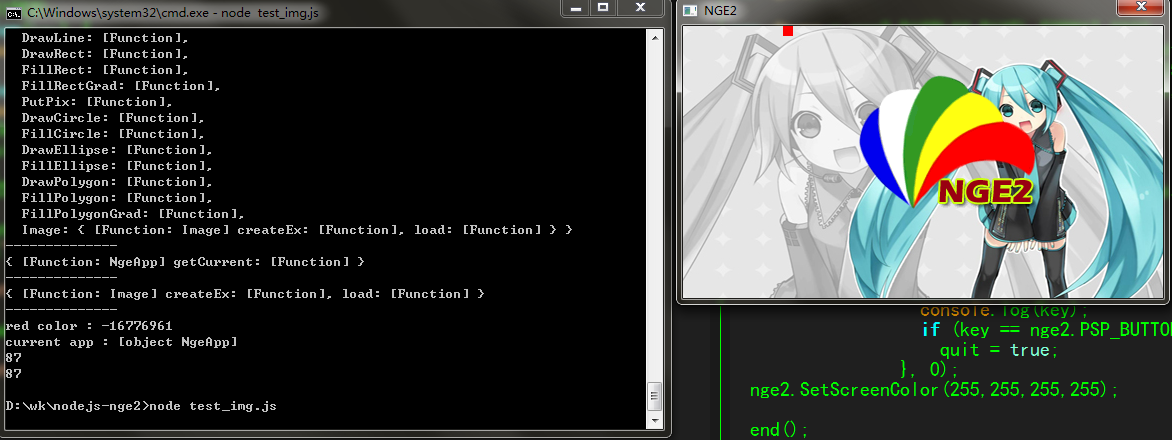
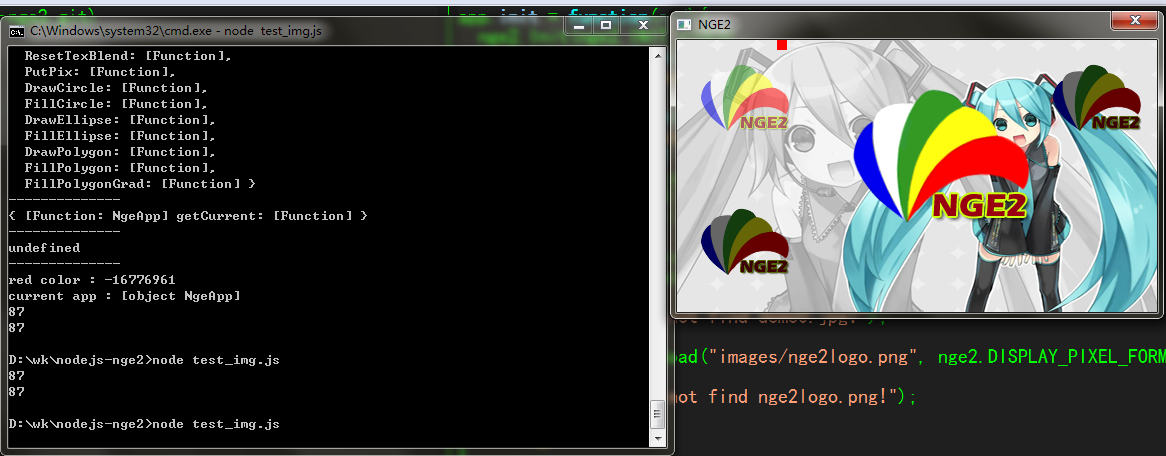
Update js example and img.

Changed region(s): [[0.0, 0.0, 1.0, 1.0], [0.6484, 0.9455, 0.6792, 1.0]]

diff --git a/test_img.js b/test_img.js
@@ -8,7 +8,9 @@ var quit
   , yellow = nge2.CreateColor(255, 255, 0, 255, dtype)
   , blue = nge2.CreateColor(0, 255, 255, 255, dtype);
 
-var img, bg, logo;
+var img, bg, logo
+  , logomask1 = nge2.CreateColor(255,255,255,128, nge2.DISPLAY_PIXEL_FORMAT_4444)
+  , logomask2 = nge2.CreateColor(100,100,100,255, nge2.DISPLAY_PIXEL_FORMAT_4444);
 
 app.init = function(end){
   nge2.Init(nge2.INIT_VIDEO);
@@ -39,9 +41,12 @@ app.mainloop = function(end){
     nge2.InputProc();
 
     nge2.BeginScene(1);
-    nge2.DrawImage(bg, 0,0,0,0, 0,0, 480, 272);
+    nge2.ImageToScreen(bg, 0,0);
     nge2.DrawImage(logo, 0,0,0,0, 128,0,256,256);
     nge2.DrawImage(img, 0,0,0,0, 100,0,0,0);
+    nge2.DrawImageMask(logo, 0,0,0,0, 0,0,128,128, logomask1);
+    nge2.DrawImageMask(logo, 0,0,0,0, 0,272-128,128,128, logomask2);
+    nge2.DrawImageMask(logo, 0,0,0,0, 480-128,0,128,128, logomask2);
     nge2.EndScene();
   }
   catch (err) {

diff --git a/run.js b/run.js
@@ -3,10 +3,6 @@ var nge2 = require('./build/Release/node_nge2');
 console.log("--------------");
 console.log(nge2);
 console.log("--------------");
-console.log(nge2.NgeApp);
-console.log("--------------");
-console.log(nge2.Image);
-console.log("--------------");
 
 var app = new nge2.NgeApp();
 
